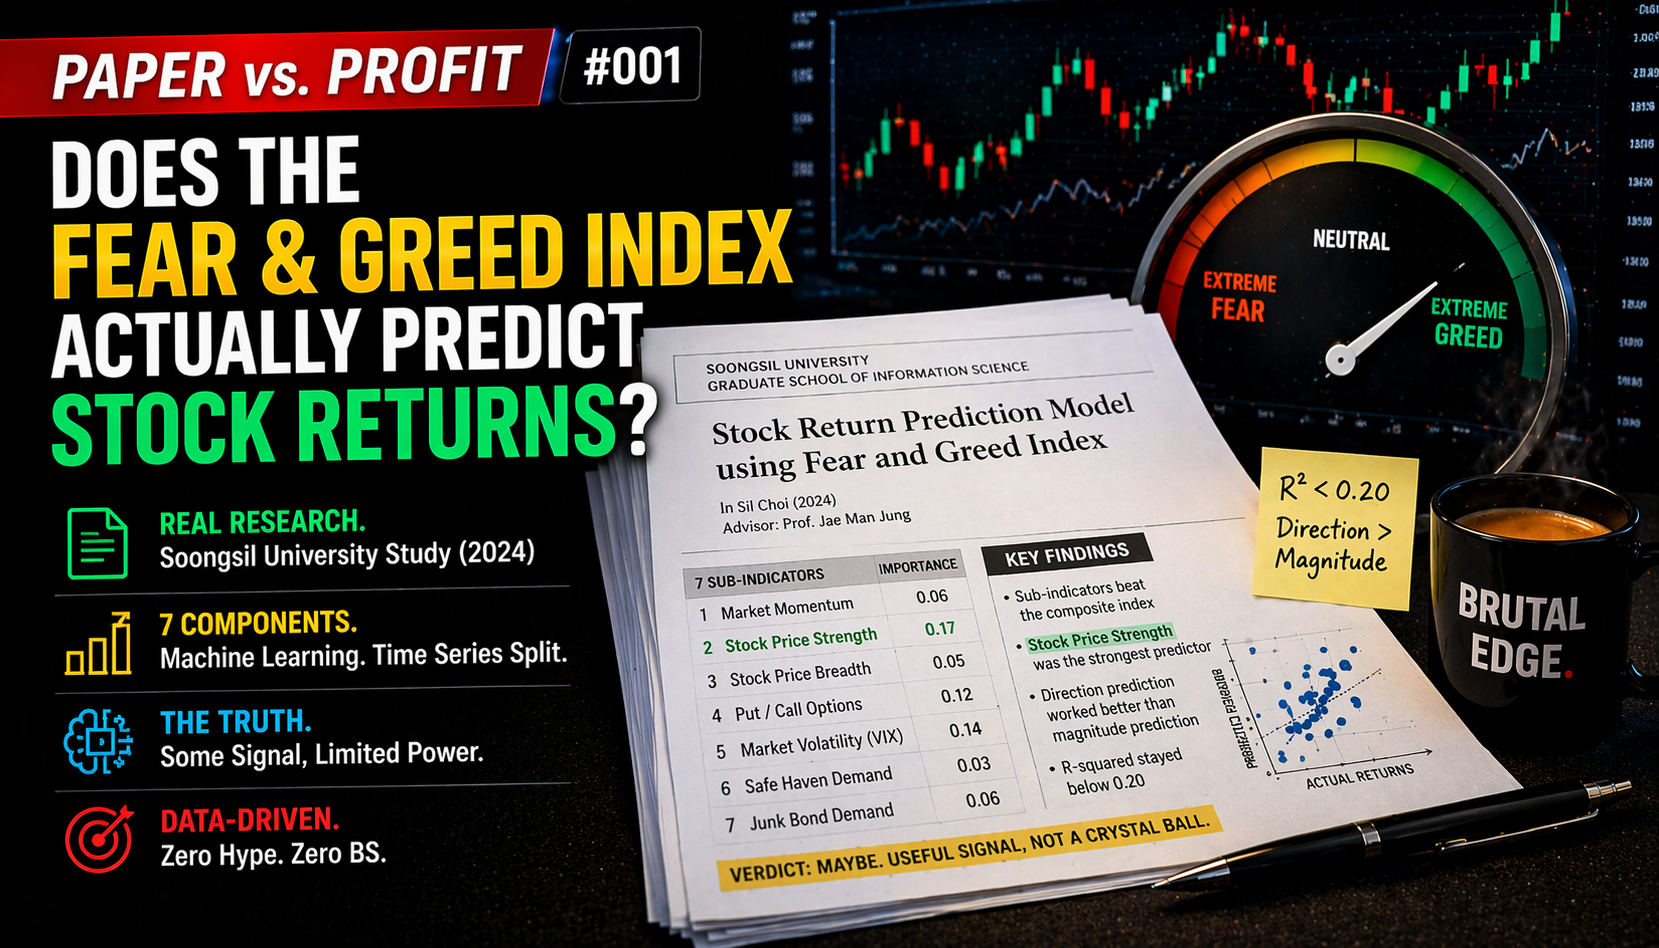
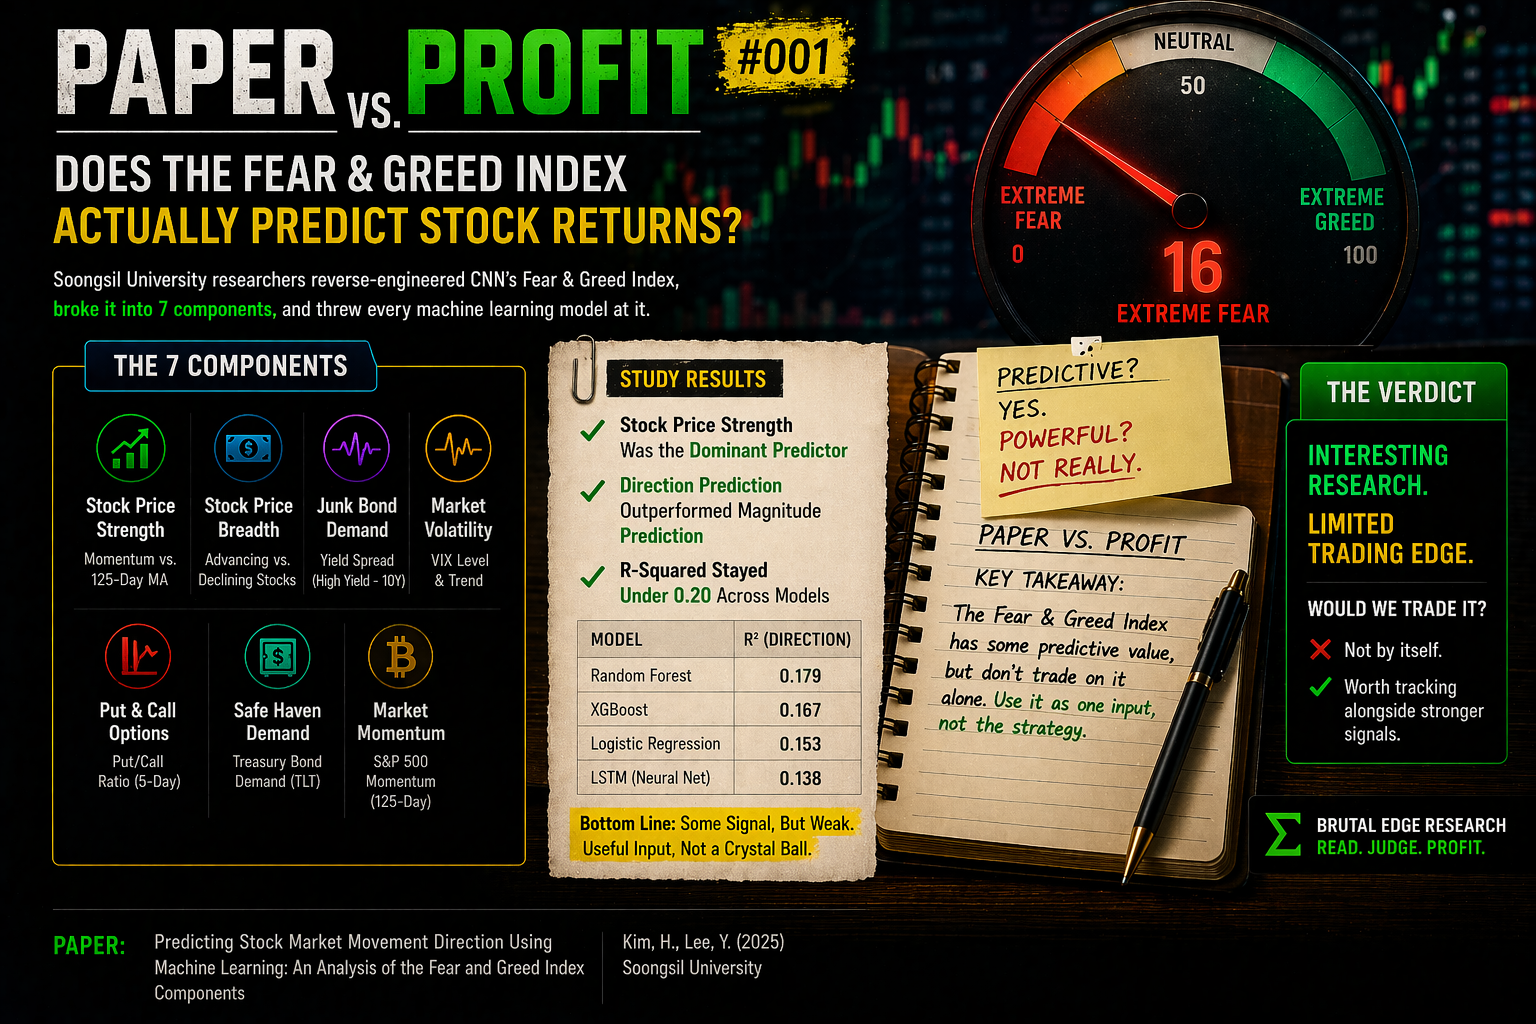
feat: update hero image for Paper vs. Profit #001

diff --git a/src/content/research/fear-greed-index-stock-prediction.md b/src/content/research/fear-greed-index-stock-prediction.md
@@ -1,5 +1,5 @@
 ---
-heroImage: "/images/content/paper-vs-profit.png"
+heroImage: "/images/content/paper-vs-profit-001-hero.png"
 slug: "fear-greed-index-stock-prediction"
 title: "Paper vs. Profit #001: Does the Fear & Greed Index Actually Predict Stock Returns?"
 category: "Sentiment"
